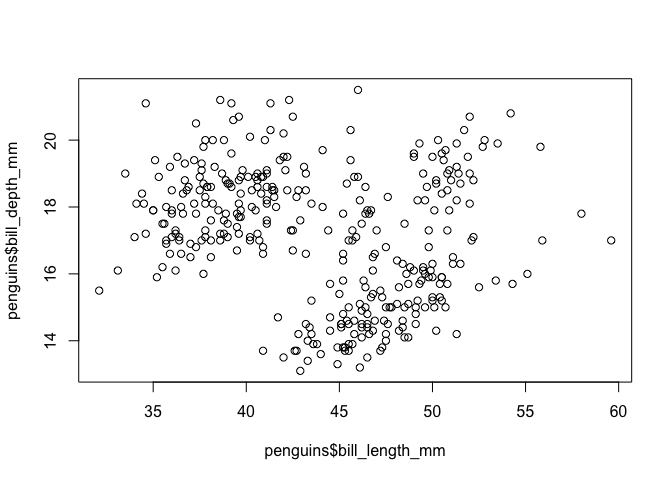
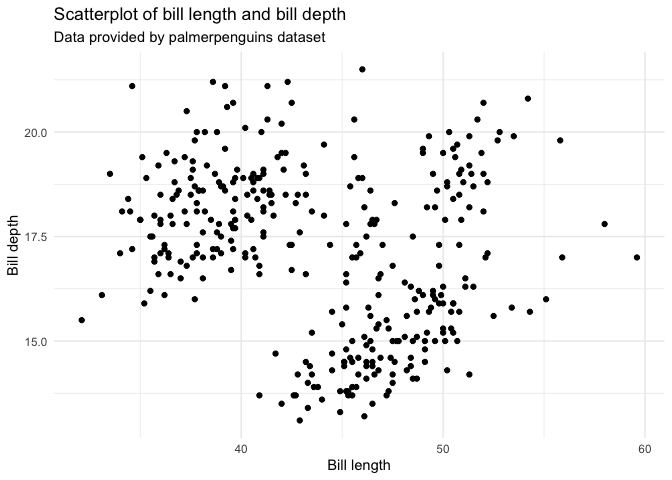
address cran changes

diff --git a/README.md b/README.md
@@ -7,7 +7,7 @@
 <!-- badges: end -->
 
 scatteR generates scatterplots based on
-[scagnostic](https://cran.r-project.org/web/packages/scagnostics/index.html)
+[scagnostic](https://cran.r-project.org/package=scagnostics)
 measurements. The current implementation uses Simulated Annealing based
 on the GenSA package for optimization and rJava is required for the
 scagnostics measurement calculation.
@@ -17,12 +17,17 @@ scagnostics measurement calculation.
 Simply put scagnostics are like diagnostics for scatterplots. Each
 scatterplot will have a certain set of characteristics that scagnostics
 will show to you. You can learn more about it through this
-[paper](https://www.semanticscholar.org/paper/Graph-theoretic-scagnostics-Wilkinson-Anand/8bc9868fe6c936614f7f94b01757723e9ffaaa43).
+[paper](https://doi.org/10.1109/INFVIS.2005.1532142).
 
 ``` r
 library(palmerpenguins)
 library(scagnostics)
-plot(penguins$bill_length_mm,penguins$bill_depth_mm)
+library(ggplot2)
+qplot(x = bill_length_mm,y = bill_depth_mm,data=penguins)+
+  theme_minimal()+
+  labs(x = "Bill length",y = "Bill depth",
+       title = "Scatterplot of bill length and bill depth",
+       subtitle = "Data provided by palmerpenguins dataset")
 ```
 
 <img src="man/figures/README-unnamed-chunk-2-1.png" width="100%" /> The
@@ -58,54 +63,62 @@ library(scatteR)
 ## basic example code
 df <- scatteR(measurements = c("Monotonic" = 0.9),n_points = 100)
 #> [1] "Epoch 1"
-#> It: 1, obj value: 0.06908920274
+#> It: 1, obj value: 0.002060606061
 #> [1] "Epoch 2"
-#> It: 1, obj value: 0.02826137844
-#> It: 47, obj value: 0.001234673525
+#> It: 1, obj value: 0.002382925918
+#> It: 20, obj value: 0.001763206699
+#> It: 94, obj value: 0.000693521734
 #> [1] "Epoch 3"
-#> It: 1, obj value: 0.0003086341952
+#> It: 1, obj value: 0.0009634972381
 #> [1] "Epoch 4"
-#> It: 1, obj value: 0.0001684042791
+#> It: 1, obj value: 0.001210817323
 #> [1] "Epoch 5"
+#> It: 1, obj value: 0.0006452760813
 #> [1] "Epoch 6"
-#> It: 1, obj value: 4.731619094e-05
+#> It: 1, obj value: 0.0002109779468
 #> [1] "Epoch 7"
-#> It: 1, obj value: 6.463110673e-05
+#> It: 1, obj value: 4.33048594e-05
 #> [1] "Epoch 8"
-#> It: 1, obj value: 0.0005844103336
+#> It: 1, obj value: 2.879774646e-05
 #> [1] "Epoch 9"
-#> It: 1, obj value: 2.90872382e-05
+#> It: 1, obj value: 1.78457193e-05
 #> [1] "Epoch 10"
-#> It: 1, obj value: 1.092022236e-05
+#> It: 1, obj value: 5.342541186e-05
 #> [1] "Epoch 11"
-#> It: 1, obj value: 4.10444138e-05
+#> It: 1, obj value: 0.0007308666196
 #> [1] "Epoch 12"
-#> It: 1, obj value: 2.63737808e-06
+#> It: 1, obj value: 0.003797876988
+#> It: 27, obj value: 0.0001279653614
 #> [1] "Epoch 13"
-#> It: 1, obj value: 9.462761899e-05
 #> [1] "Epoch 14"
-#> It: 1, obj value: 6.843463089e-06
 #> [1] "Epoch 15"
-#> It: 1, obj value: 3.937853737e-06
 #> [1] "Epoch 16"
-#> It: 1, obj value: 0.005547845654
-#> It: 8, obj value: 1.647764738e-06
+#> It: 1, obj value: 0.0001079452511
 #> [1] "Epoch 17"
-#> It: 1, obj value: 7.81726338e-06
+#> It: 1, obj value: 0.0001488984651
 #> [1] "Epoch 18"
-#> It: 1, obj value: 2.918974143e-06
+#> It: 1, obj value: 3.746684033e-05
 #> [1] "Epoch 19"
-#> It: 1, obj value: 3.764917101e-05
+#> It: 1, obj value: 4.910409006e-05
 #> [1] "Epoch 20"
-#> It: 1, obj value: 1.067942567e-05
+#> It: 1, obj value: 5.739727661e-06
+#> [1] "Epoch 21"
+#> It: 1, obj value: 2.171413779e-05
+#> [1] "Epoch 22"
+#> [1] "Epoch 23"
+#> It: 1, obj value: 0.002067656372
+#> It: 10, obj value: 6.65756155e-06
+#> [1] "Epoch 24"
+#> [1] "Epoch 25"
+#> It: 1, obj value: 2.006914323e-05
 ```
 
 ``` r
 scagnostics(df)
 #>  Outlying    Skewed    Clumpy    Sparse  Striated    Convex    Skinny   Stringy 
-#> 0.2538847 0.8248022 0.1018009 0.1291258 0.1967213 0.4598955 0.6536334 0.4664043 
+#> 0.3374091 0.8469671 0.2213065 0.1606455 0.1296296 0.2339855 0.6467435 0.4519979 
 #> Monotonic 
-#> 0.9000107 
+#> 0.8999799 
 #> attr(,"class")
 #> [1] "scagnostics"
 ```
